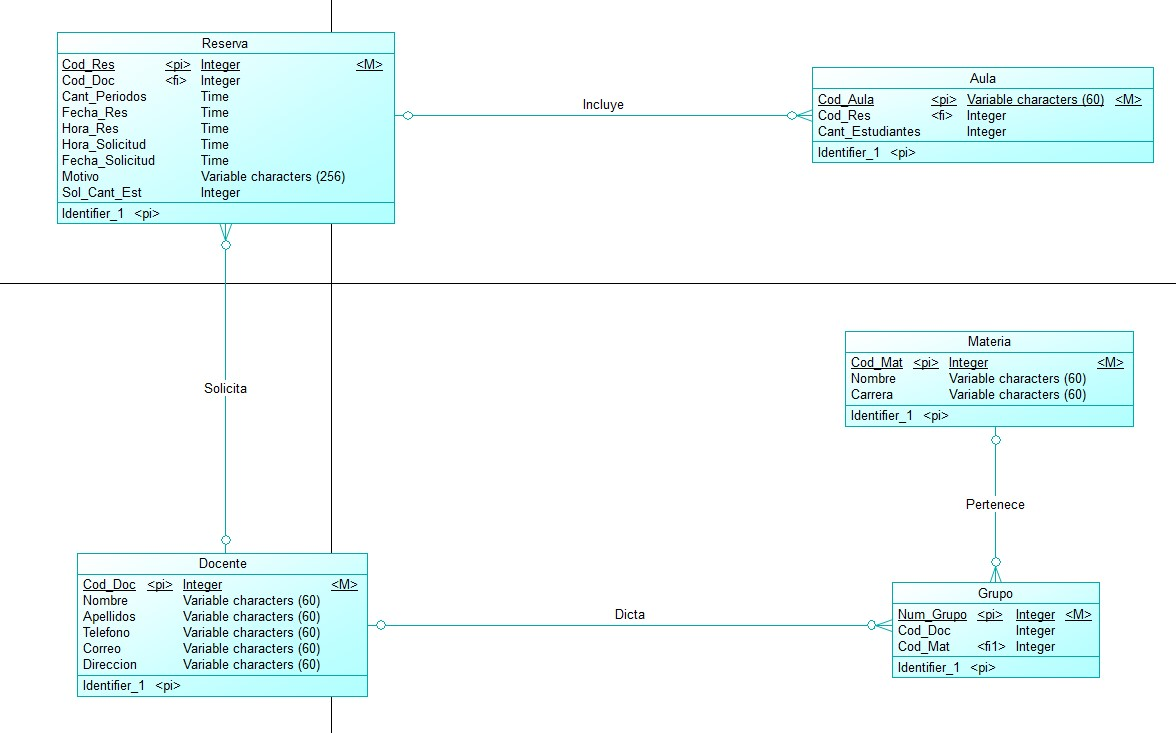
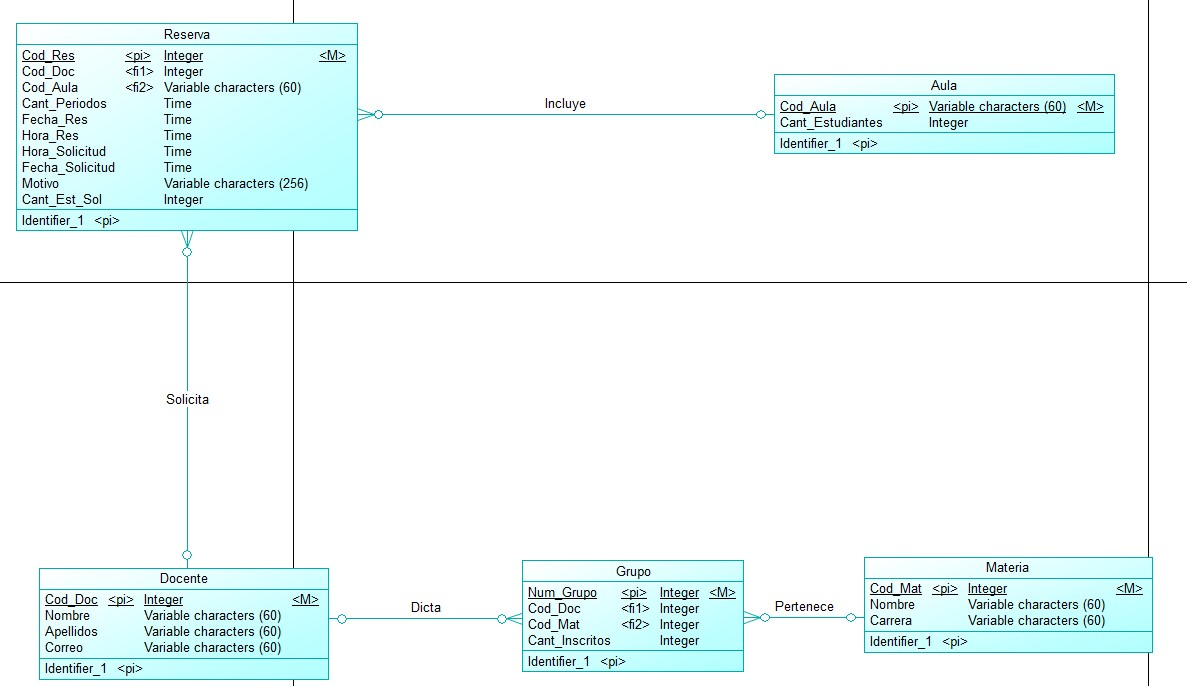
Base de datos actualizada (Modelo y Migraciones)

diff --git a/Proyecto_Munay/Proyecto_Munay/Templates/BaseHeaderFooter.html b/Proyecto_Munay/Proyecto_Munay/Templates/BaseHeaderFooter.html
@@ -58,7 +58,7 @@
           <div class="collapse navbar-collapse ms-lg-3 justify-content-center" id="navbarTogglerDemo03">
                   <ul class="navbar-nav me-auto mb-lg-0">
                       <li class="nav-item nav-justified">
-                          <a class="nav-link active  pe-2 mx-3" aria-current="page" href="#">Inicio</a>
+                          <a class="nav-link active  pe-2 mx-3" aria-current="page" href="/VistaDocente/">Inicio</a>
                       </li>
                       <li class="nav-item nav-justified">
                           <a class="nav-link active pe-2 mx-3" href="#" data-toggle="modal" data-target="#exampleModalCenter1">Acerca de </a>

diff --git a/Proyecto_Munay/GestionDB/models.py b/Proyecto_Munay/GestionDB/models.py
@@ -1,3 +1,4 @@
+from operator import truediv
 from django.db import models
 from django.db.models.deletion import CASCADE
 # Create your models here.
@@ -11,25 +12,28 @@ class Docente(models.Model):
     def __str__(self):
         return self.email
 
-class Reserva(models.Model):
-     # El id de REserva se genera automaticamente
-    Cod_Docente= models.ForeignKey(Docente,on_delete=CASCADE,null=True)
-    cant_Periodos = models.IntegerField()
-    fecha_Reserva = models.TimeField()
-    Fecha_Solicitud_Res = models.TimeField()
-    motivo = models.CharField(max_length=256)
-    cant_Estudiantes=models.IntegerField()
-
-    def __str__(self):
-        return self.motivo
-
 class Aula(models.Model):
-     # El id de aula se genera automaticamente
-    Cod_Reserva= models.ForeignKey(Reserva,on_delete=CASCADE,null=True)
+    # El id de aula se genera automaticamente
+    # Cod_Reserva= models.ForeignKey(Reserva,on_delete=CASCADE,null=True)
     Cant_Estudiante = models.IntegerField()
 
     def __str__(self):
         return self.Cant_Estudiante
+
+
+class Reserva(models.Model):
+     # El id de Reserva se genera automaticamente
+    Cod_Docente= models.ForeignKey(Docente,on_delete=CASCADE,null=True)
+    Cod_Aula = models.ForeignKey(Aula,on_delete=CASCADE,null=True)
+    cant_Periodos = models.IntegerField()
+    fecha_Reserva = models.TimeField()
+    Fecha_Solicitud_Res = models.TimeField()
+    motivo = models.CharField(max_length=256)
+    Cant_Est_Sol=models.IntegerField()
+
+    def __str__(self):
+        return self.motivo
+
 
 class Materia(models.Model):
      # El id de Materia se genera automaticamente
@@ -52,6 +56,7 @@ class Grupo(models.Model):
     Cod_Materia= models.ForeignKey(Materia,on_delete=CASCADE,null=True)
     # Cod_Grupo= models.ForeignKey(Grupo,on_delete=CASCADE,null=True)
     Cod_Docente = models.ForeignKey(Docente,on_delete=CASCADE,null=True)
+    Cant_Inscritos = models.IntegerField(null=True)
     
     def __str__(self):
         return self.Cod_Docente

diff --git a/Proyecto_Munay/GestionDB/migrations/0002_auto_20220414_1823.py b/Proyecto_Munay/GestionDB/migrations/0002_auto_20220414_1823.py
@@ -1,0 +1,33 @@
+# Generated by Django 3.2.8 on 2022-04-14 22:23
+
+from django.db import migrations, models
+import django.db.models.deletion
+
+
+class Migration(migrations.Migration):
+
+    dependencies = [
+        ('GestionDB', '0001_initial'),
+    ]
+
+    operations = [
+        migrations.RenameField(
+            model_name='reserva',
+            old_name='cant_Estudiantes',
+            new_name='Cant_Est_Sol',
+        ),
+        migrations.RemoveField(
+            model_name='aula',
+            name='Cod_Reserva',
+        ),
+        migrations.AddField(
+            model_name='grupo',
+            name='Cant_Inscritos',
+            field=models.IntegerField(null=True),
+        ),
+        migrations.AddField(
+            model_name='reserva',
+            name='Cod_Aula',
+            field=models.ForeignKey(null=True, on_delete=django.db.models.deletion.CASCADE, to='GestionDB.aula'),
+        ),
+    ]
